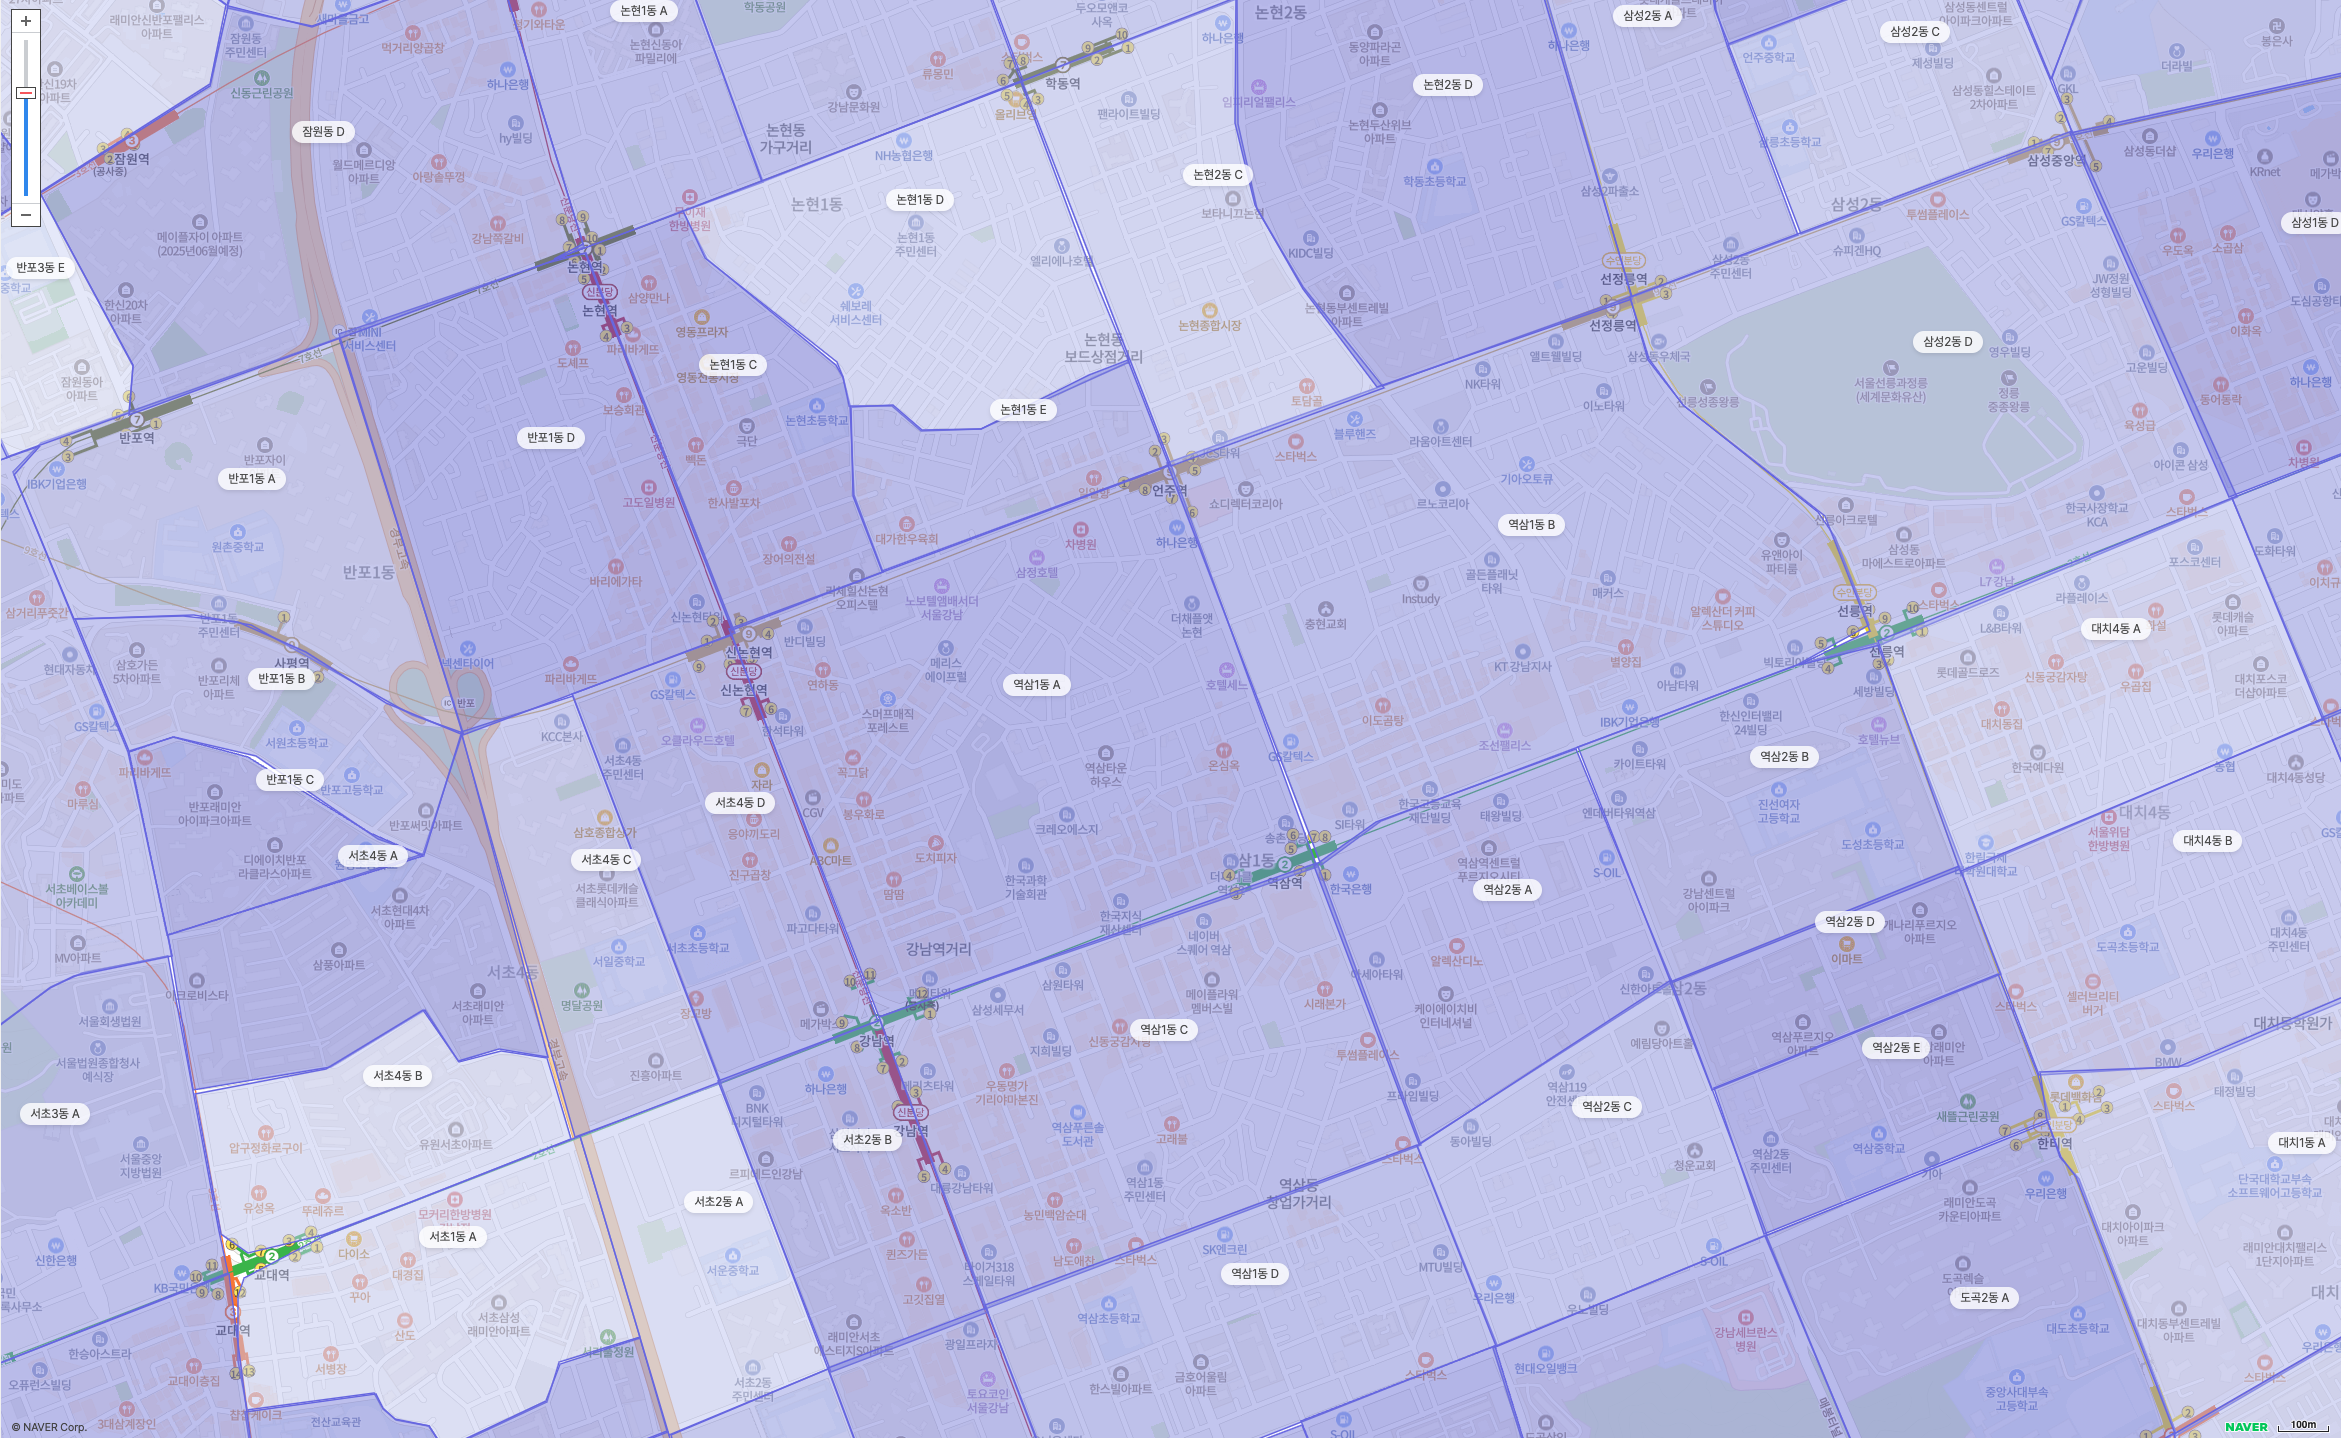
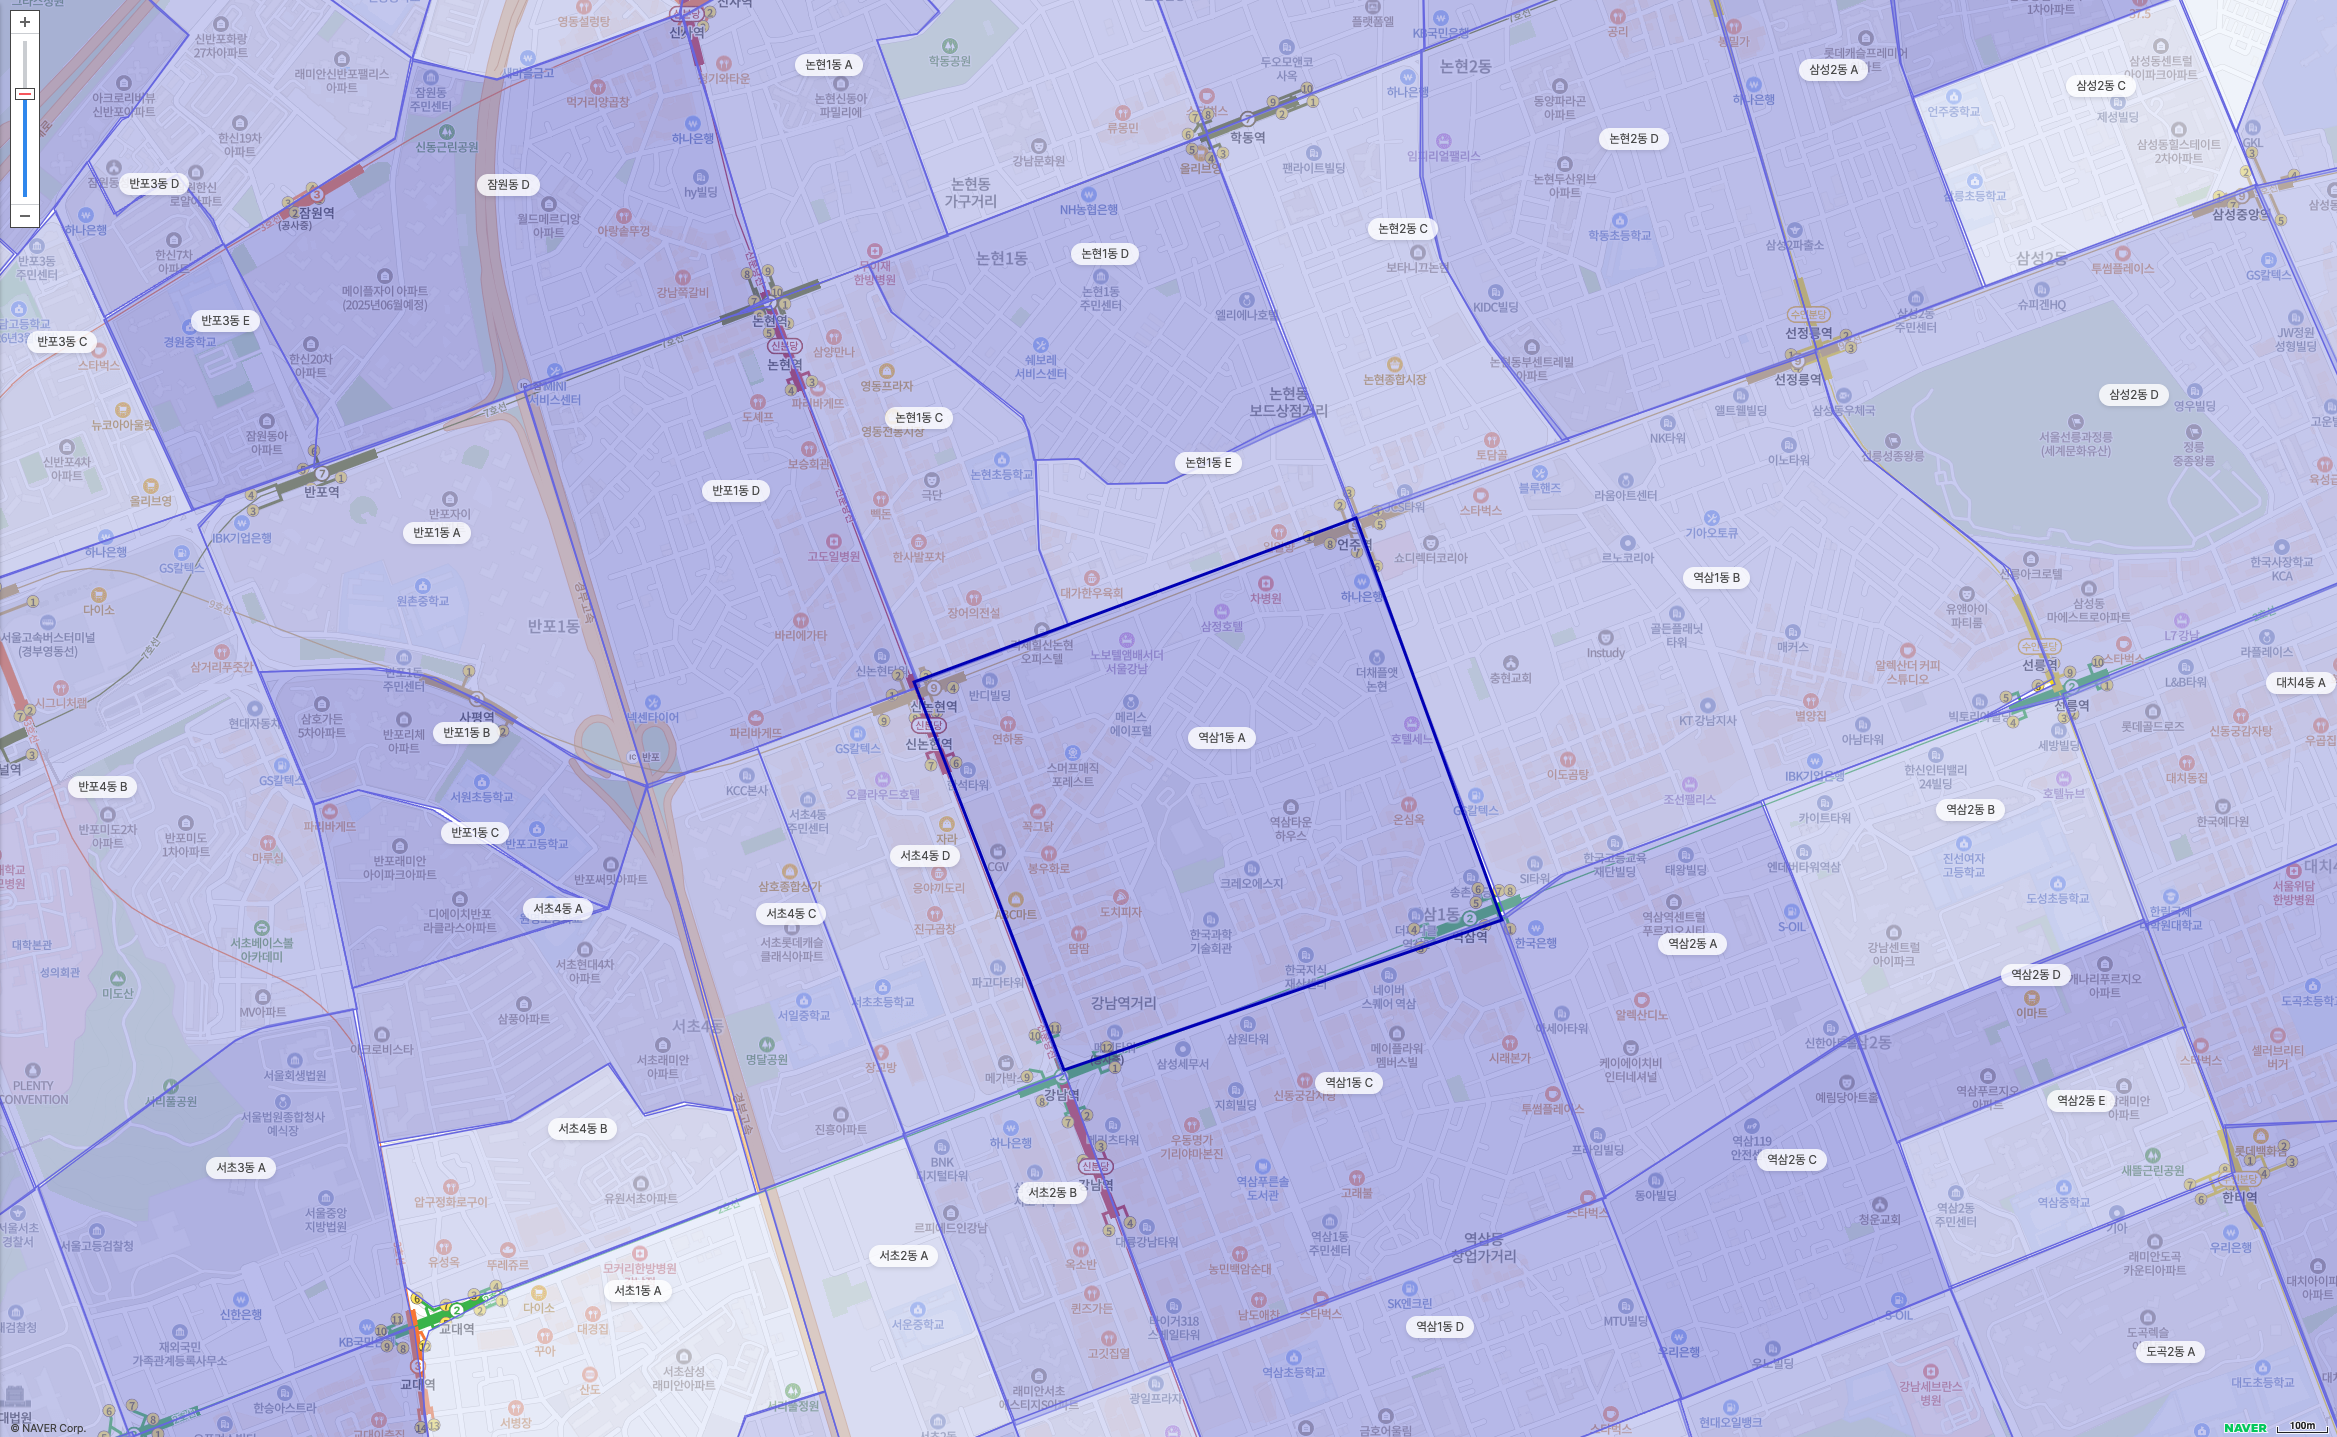
feat:complete tutorial flow

diff --git a/src/pages/MapByRegionPage.tsx b/src/pages/MapByRegionPage.tsx
@@ -1,4 +1,4 @@
-import { useEffect, useRef, useState } from "react";
+import { useEffect, useRef } from "react";
 import dayjs from "dayjs";
 import StatisticsDrawer from "../components/medi_map/StatisticsDrawer";
 import mapStore from "../store/mapStore";
@@ -22,11 +22,10 @@ function MapByRegionPage() {
   const navigate = useNavigate();
   const tutorialSteps = MapByRegionTutorialSteps(tutorialRefs);
   const { mapElement, isFetching } = useNaverMapCore();
-  const { isInActiveUser, lastedUpdatedDate } = userStore();
+  const { isInActiveUser, lastedUpdatedDate, startTutorial } = userStore();
   const { loading, setDrawerDate, handleIsDrawerOpen } = mapStore();
   const { dateRange, handleDateRangeChange } = useRangeDurationDatePicker();
 
-  const [showTutorial, setShowTutorial] = useState(true);
   const { tutorialStep, setTutorialStep, nextStep } = useTutorial({
     steps: tutorialRefs
   });
@@ -57,14 +56,31 @@ function MapByRegionPage() {
   }, [dateRange]);
 
   useEffect(() => {
-    if (tutorialStep === 3) {
+    if (tutorialStep === 6) {
       handleIsDrawerOpen(true);
     }
   }, [tutorialStep]);
 
+  const getImageBasedonTutorialStep = () => {
+    switch (tutorialStep) {
+      case 1:
+        return "/images/MapByRegionTutorialMap.png";
+      case 2:
+        return "/images/MapByRegionTutorialMap.png";
+      case 3:
+        return "/images/MapByRegionTutorial_small.png";
+      case 4:
+        return "/images/MapByRegionTutorial_dong.png";
+      case 5:
+        return "/images/MapByRegionTutorial_gu.png";
+      default:
+        return "/images/MapByRegionTutorialMap.png";
+    }
+  };
+
   return (
     <>
-      {isInActiveUser && <RequireSubscribe />}
+      {!startTutorial && isInActiveUser && <RequireSubscribe />}
       {(isFetching || loading) && <Loading />}
       <MapContainer ref={mapElement}>
         <Wrapper>
@@ -82,7 +98,7 @@ function MapByRegionPage() {
           </ContentBox>
         </Wrapper>
       </MapContainer>
-      <StatisticsDrawer showTutorial={showTutorial} />
+      <StatisticsDrawer showTutorial={startTutorial} />
       {tutorialSteps[tutorialStep].specialBackground && (
         <div
           style={{
@@ -103,7 +119,7 @@ function MapByRegionPage() {
               handleIsDrawerOpen(true);
               nextStep();
             }}
-            src={"/images/MapByRegionTutorialMap.png"}
+            src={getImageBasedonTutorialStep()}
             alt="MapByRegionTutorialMap"
           />
         </div>
@@ -112,8 +128,8 @@ function MapByRegionPage() {
         steps={tutorialSteps}
         tutorialStep={tutorialStep}
         setTutorialStep={setTutorialStep}
-        onComplete={() => navigate("/update_data")}
-        showTutorial={showTutorial}
+        onComplete={() => navigate("/statistics-by-region")}
+        showTutorial={startTutorial}
       />
     </>
   );

diff --git a/src/hooks/useNaverMapCore.tsx b/src/hooks/useNaverMapCore.tsx
@@ -21,7 +21,7 @@ export function useNaverMapCore({
   getPolygonFillColor,
   getPolygonHighlightColor
 }: UseNaverMapCoreOptions = {}) {
-  const { user } = userStore();
+  const { user, startTutorial } = userStore();
   const {
     drawerDate,
     drawerDate1,
@@ -84,14 +84,13 @@ export function useNaverMapCore({
     : hilightColor;
   const defaultColor = isComparison ? basicColor : color;
 
-  const tutorial = true;
   // Initialize map only once
   useEffect(() => {
     if (!mapElement.current || map || !user.location) return;
 
     const newMap = new window.naver.maps.Map(mapElement.current, {
       center: new window.naver.maps.LatLng(
-        tutorial
+        startTutorial
           ? new window.naver.maps.LatLng(37.5040117, 127.029943)
           : new window.naver.maps.LatLng(
               user?.location.lat,
